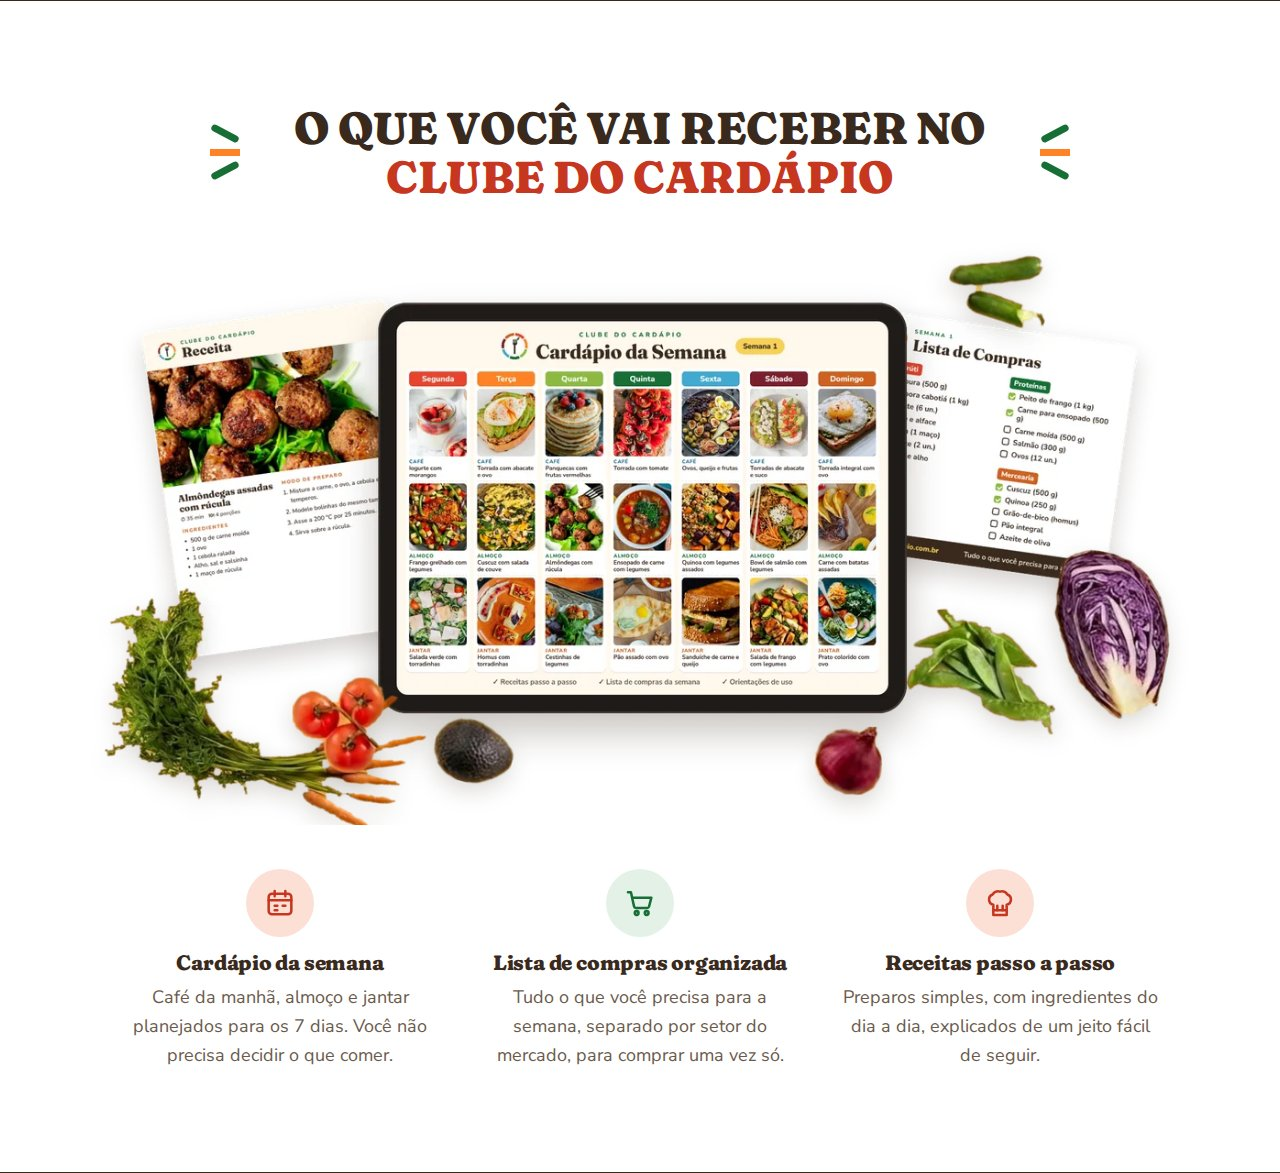
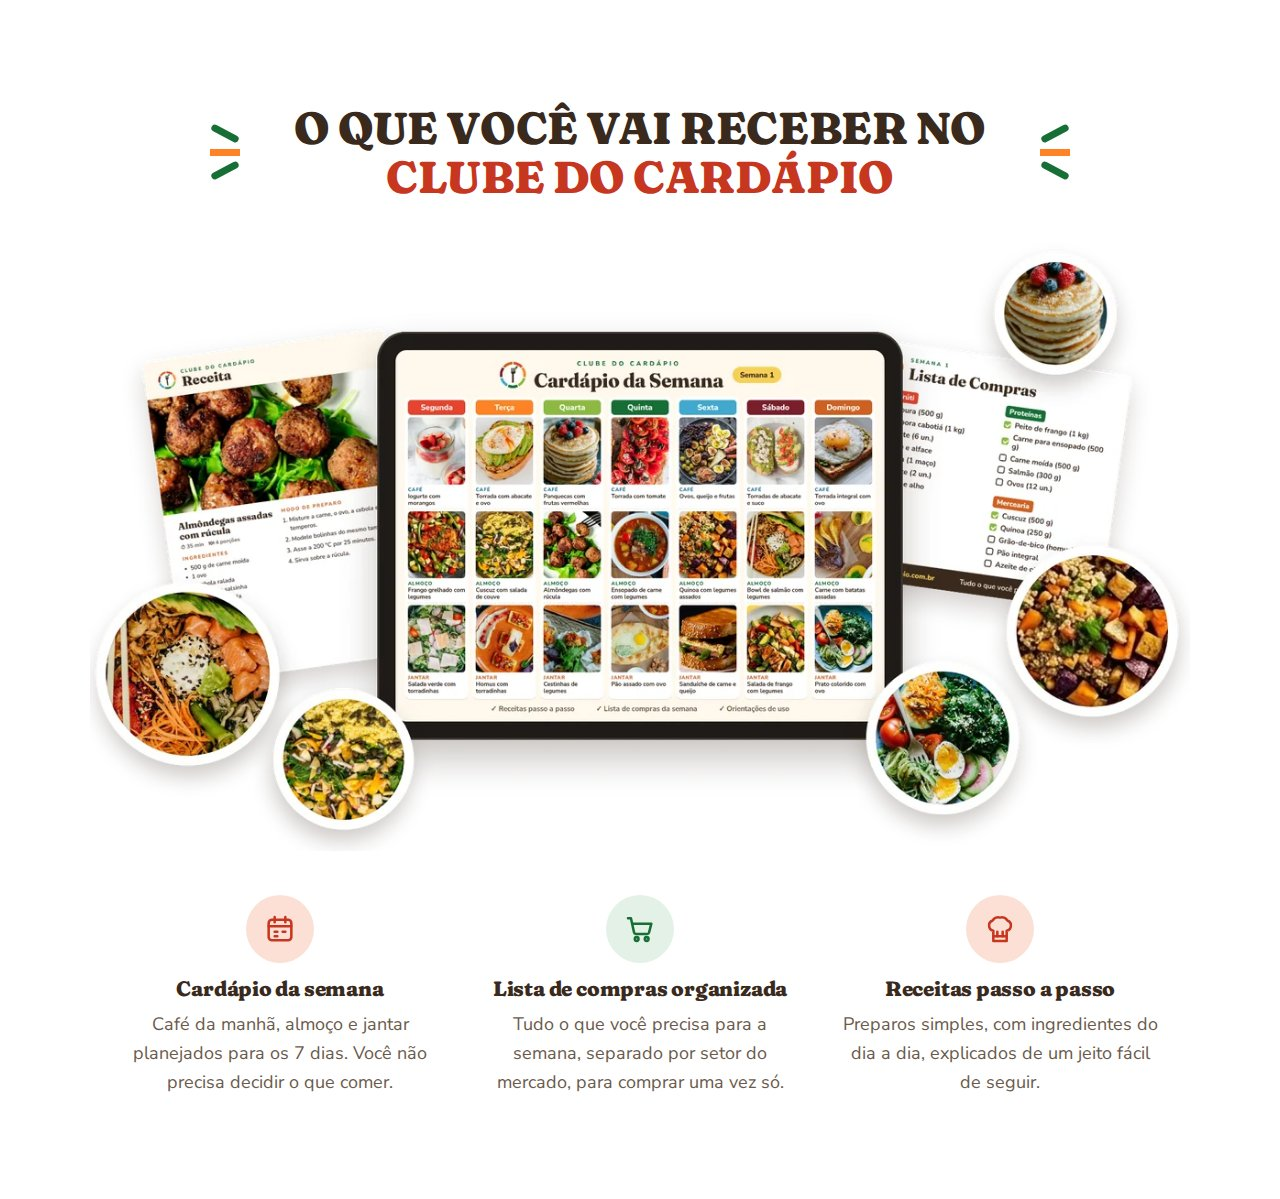
O que você vai receber: pratos prontos no lugar dos legumes e folhas
Claude-Session: https://claude.ai/code/session_011dvyRhPNz3FX2TnzhsmVBS

diff --git a/docs/componentes/index.html b/docs/componentes/index.html
@@ -128,7 +128,7 @@
         <h2 class="recebe__titulo"><span class="recebe__risco recebe__risco--esq" aria-hidden="true"></span>O que você vai receber no <span class="destaque">Clube do Cardápio</span><span class="recebe__risco recebe__risco--dir" aria-hidden="true"></span></h2>
         <picture class="recebe__imagem">
           <source srcset="../../images/mockups/o-que-voce-recebe-1200.webp 1200w, ../../images/mockups/o-que-voce-recebe.webp 1790w" sizes="(min-width: 1160px) 1100px, 100vw" type="image/webp">
-          <img src="../../images/mockups/o-que-voce-recebe-1200.webp" alt="Tablet com o cardápio da semana, cartão de receita e lista de compras, cercados de legumes e verduras" width="1200" height="636" loading="lazy">
+          <img src="../../images/mockups/o-que-voce-recebe-1200.webp" alt="Tablet com o cardápio da semana, cartão de receita e lista de compras, cercados de pratos prontos" width="1200" height="665" loading="lazy">
         </picture>
         <div class="recebe__itens">
           <div class="recebe__item" data-anima><span class="recebe__icone recebe__icone--tomate"><svg viewBox="0 0 24 24" fill="none" stroke="currentColor" stroke-width="1.9" stroke-linecap="round" stroke-linejoin="round" aria-hidden="true"><rect x="3.5" y="5" width="17" height="15.5" rx="2.5"/><path d="M3.5 10h17M8 3v4M16 3v4M8 14h2M14 14h2M8 17.5h2"/></svg></span><h3>Cardápio da semana</h3><p>Café da manhã, almoço e jantar planejados para os 7 dias. Você não precisa decidir o que comer.</p></div>

diff --git a/index.html b/index.html
@@ -195,7 +195,7 @@
         <h2 class="recebe__titulo"><span class="recebe__risco recebe__risco--esq" aria-hidden="true"></span>O que você vai receber no <span class="destaque">Clube do Cardápio</span><span class="recebe__risco recebe__risco--dir" aria-hidden="true"></span></h2>
         <picture class="recebe__imagem">
           <source srcset="images/mockups/o-que-voce-recebe-1200.webp 1200w, images/mockups/o-que-voce-recebe.webp 1790w" sizes="(min-width: 1160px) 1100px, 100vw" type="image/webp">
-          <img src="images/mockups/o-que-voce-recebe-1200.webp" alt="Tablet com o cardápio da semana, cartão de receita e lista de compras, cercados de legumes e verduras" width="1200" height="636" loading="lazy">
+          <img src="images/mockups/o-que-voce-recebe-1200.webp" alt="Tablet com o cardápio da semana, cartão de receita e lista de compras, cercados de pratos prontos" width="1200" height="665" loading="lazy">
         </picture>
         <div class="recebe__itens">
           <div class="recebe__item" data-anima><span class="recebe__icone recebe__icone--tomate"><svg viewBox="0 0 24 24" fill="none" stroke="currentColor" stroke-width="1.9" stroke-linecap="round" stroke-linejoin="round" aria-hidden="true"><rect x="3.5" y="5" width="17" height="15.5" rx="2.5"/><path d="M3.5 10h17M8 3v4M16 3v4M8 14h2M14 14h2M8 17.5h2"/></svg></span><h3>Cardápio da semana</h3><p>Café da manhã, almoço e jantar planejados para os 7 dias. Você não precisa decidir o que comer.</p></div>
